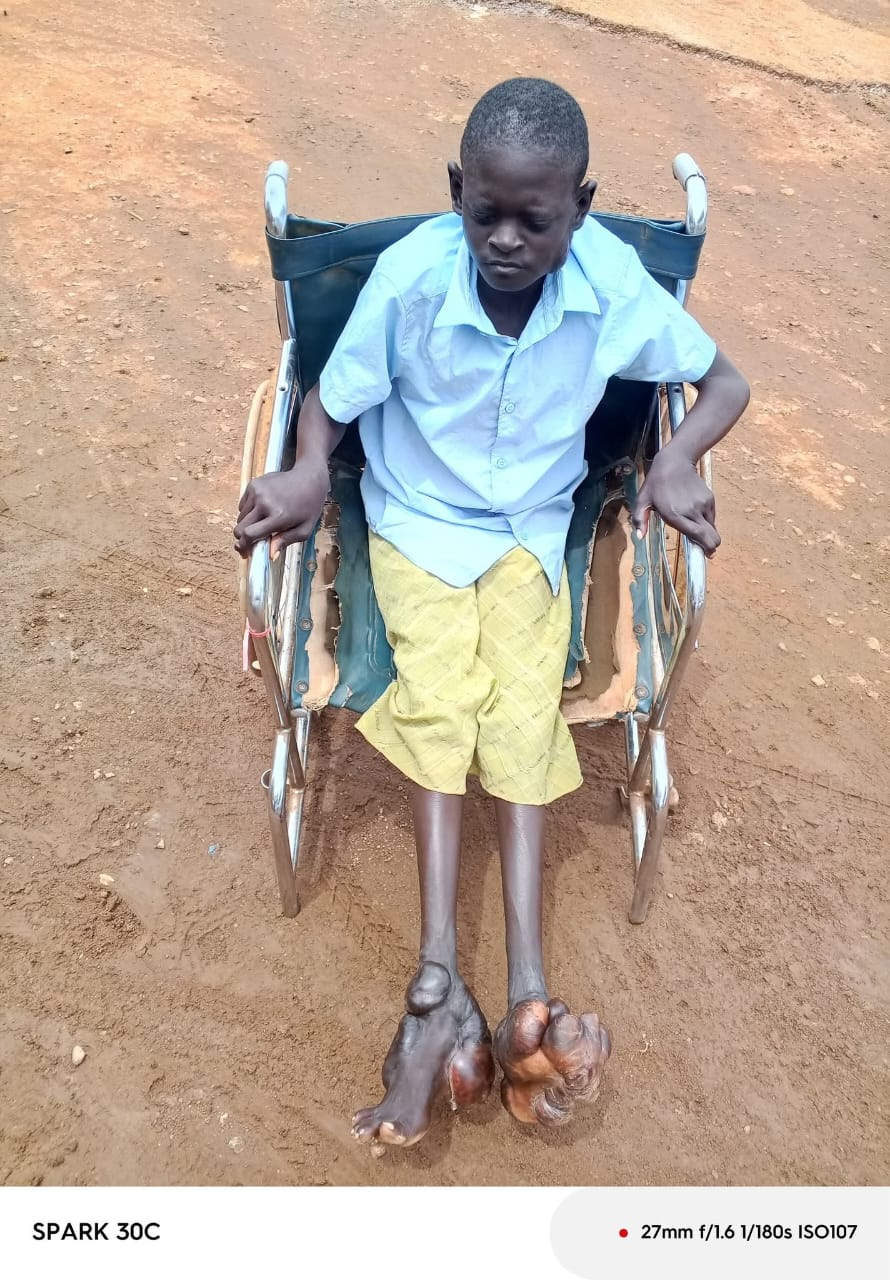
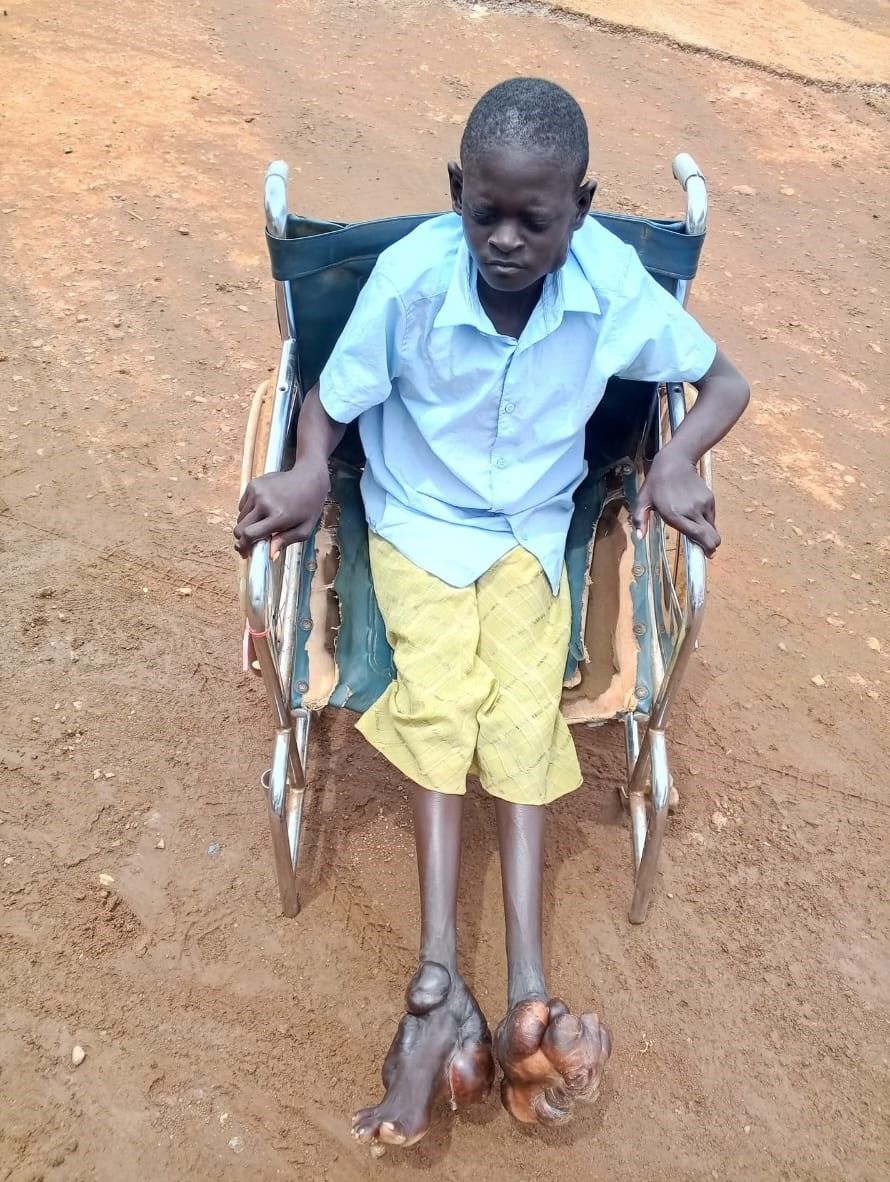
added change to photo

diff --git a/index.html b/index.html
@@ -660,7 +660,7 @@
         
         <!-- Image Placeholder: Replace 'src' with your actual image path -->
         <div class="w-full h-64 sm:h-72 bg-slate-200 relative group">
-            <img src="https://placehold.co/600x400/e2e8f0/64748b?text=Replace+With+Moureen's+Photo" alt="Support Moureen" class="w-full h-full object-cover">
+            <img src="urgent.jpeg" alt="Support Moureen" class="w-full h-full object-cover">
             
             <!-- Urgent Tag -->
             <div class="absolute top-4 left-4 bg-rose-500 text-white text-[10px] font-black px-3 py-1.5 rounded-full uppercase tracking-widest shadow-md flex items-center gap-1.5">
